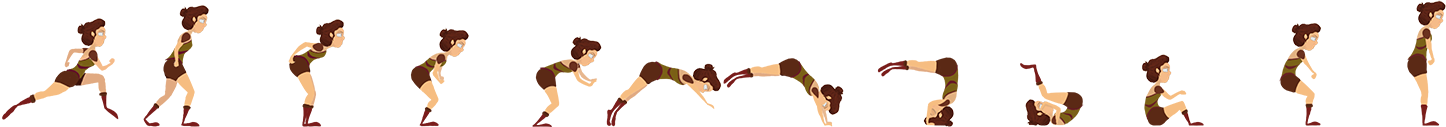
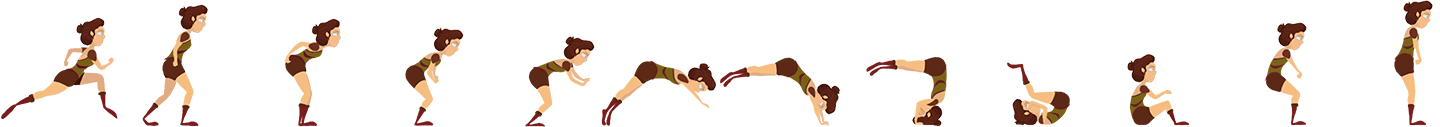
Corrected jump animation... still looks weird thp

diff --git a/core/src/mx/com/nullpointer/utils/MainCharacter.java b/core/src/mx/com/nullpointer/utils/MainCharacter.java
@@ -157,7 +157,8 @@ public class MainCharacter extends Objeto
                 ||currentCellUp.getTile().getId()== 3
                 ||currentCellUp.getTile().getId() == 5
                 ||currentCellUp.getTile().getId() == 1
-                ||currentCellUp.getTile().getId() == 7))
+                ||currentCellUp.getTile().getId() == 7
+                ||currentCellUp.getTile().getId() == 6))
         {
             this.movementState=MovementState.FALLING;
             timerAction=0;
@@ -173,7 +174,8 @@ public class MainCharacter extends Objeto
                 ||currentCellDown.getTile().getId()== 3
                 ||currentCellDown.getTile().getId() == 5
                 ||currentCellDown.getTile().getId() == 1
-                ||currentCellDown.getTile().getId() == 7))
+                ||currentCellDown.getTile().getId() == 7
+                ||currentCellDown.getTile().getId()== 6))
         {
             if(movementState == MovementState.FALLING)
             {
@@ -234,7 +236,12 @@ public class MainCharacter extends Objeto
                 timerAction=0;
                 timerRunning=0;
             }
-            TextureRegion region = (TextureRegion) jumpingAnimation.getKeyFrame(timerAction);
+
+            TextureRegion region;
+            if(timerAction>=0.04*12 && movementState == MovementState.JUMPING)
+                region = (TextureRegion) jumpingAnimation.getKeyFrame(0.04f*12);
+            else
+                region = (TextureRegion) jumpingAnimation.getKeyFrame(timerAction);
             batch.draw(region,x,y);
         }
 
